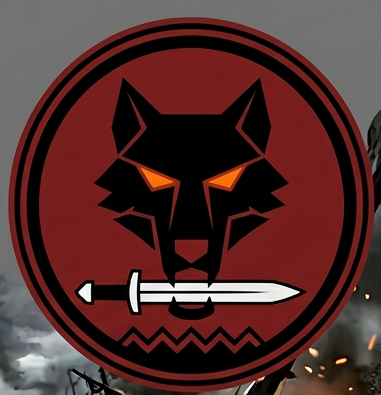
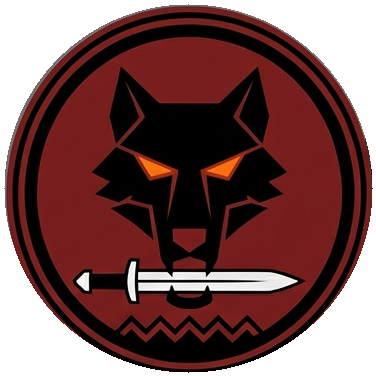
Update visual identity paint guide and chapter seal image
- Revised the description of the primary chapter roundel in the visual identity paint guide to clarify the approved framing and dimensions.
- Updated the chapter seal image to ensure it meets the specified RGBA format and transparency requirements.

Made-with: Cursor

diff --git a/codex-batavi/visual-identity-paint-guide.md b/codex-batavi/visual-identity-paint-guide.md
@@ -23,7 +23,7 @@
 
 Use for **2D seal**, **decal design**, and **AI prompt** alignment — distinct from “grey plate + crimson trim” on models.
 
-**Approved rasters:** [`lore-images/chapter-seal-official.png`](lore-images/chapter-seal-official.png) — **primary chapter roundel** (author-approved crop of the seal from the IV *Quarta* vexillum art; native **381×395** — scale with care for decals / game without stretching aspect). **Do not** replace with an automated re-crop from [`vexillum-vexillatio-iv-quarta.png`](lore-images/vexillum-vexillatio-iv-quarta.png) unless you re-match this framing. Legacy / flat trace target (if present in your tree): [`lore-images/chapter-seal-canonical.png`](lore-images/chapter-seal-canonical.png). **Colour law** remains the table below — do not drift palette from this raster alone.
+**Approved rasters:** [`lore-images/chapter-seal-official.png`](lore-images/chapter-seal-official.png) — **primary chapter roundel** (author-approved framing from the IV *Quarta* vexillum art; **376×376** RGBA, **transparent outside the outer black ring** — tight square bound to the detected circle; re-run circle detect if you replace the source art). **Do not** replace with an automated re-crop from [`vexillum-vexillatio-iv-quarta.png`](lore-images/vexillum-vexillatio-iv-quarta.png) unless you re-match this framing. Legacy / flat trace target (if present in your tree): [`lore-images/chapter-seal-canonical.png`](lore-images/chapter-seal-canonical.png). **Colour law** remains the table below — do not drift palette from this raster alone.
 
 | Element | Generic prose | Citadel paint (reference) |
 |---------|----------------|---------------------------|
